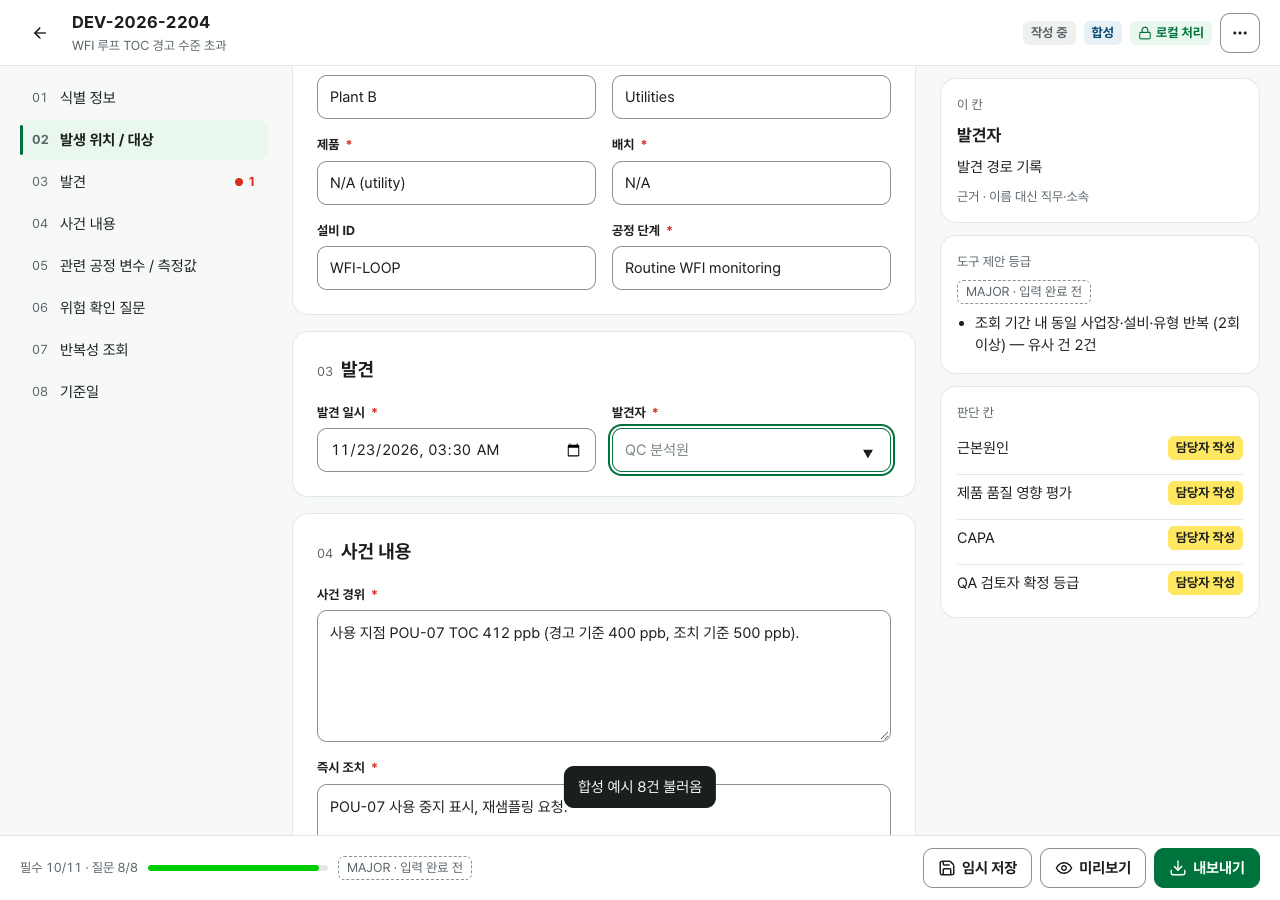
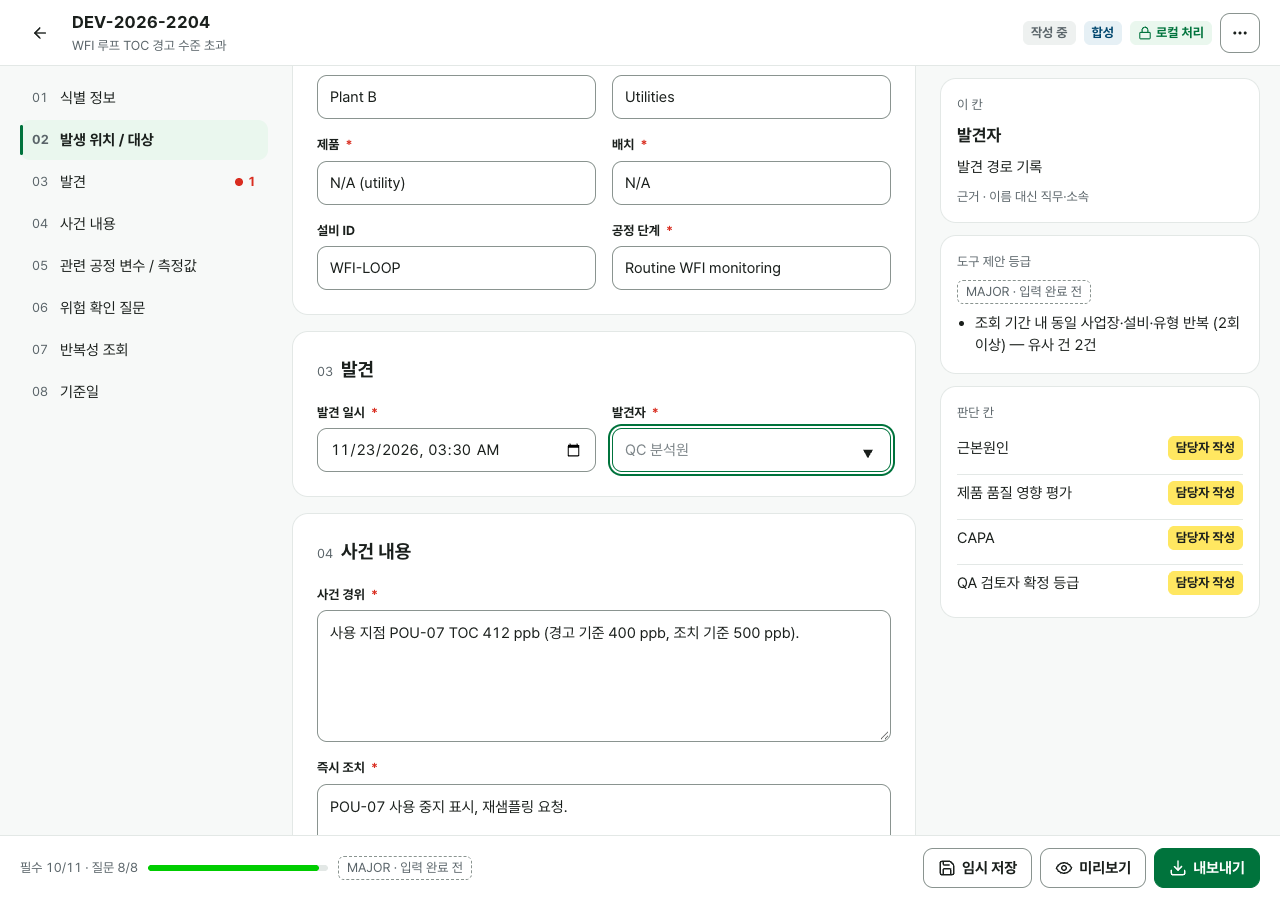
README: 화면과 CLI를 대조하다 찾은 결함 3건 추가, 화면 스크린샷 교체
- 결함 표: 실제 양식 + 합성 이력의 가짜 반복 건, Markdown 별표·규칙 해시, Word 표 폭
- web/docs 스크린샷을 지금 화면으로 (알림 문구가 카드를 가리지 않게 캡처)
- HANDOFF: Word 확인 상태를 실제 확인한 내용으로

Changed region(s): [[0.4375, 0.84, 0.5625, 0.9022]]

diff --git a/docs/HANDOFF.md b/docs/HANDOFF.md
@@ -15,7 +15,7 @@
 | 반복성 조회 (같은 사업장·설비·유형, 과거 근본원인 기본 숨김) | ✅ |
 | 이력 CSV 점검 (`--check-history`) | ✅ |
 | 일괄 처리 요약표 (`--summary`) | ✅ |
-| Word 초안 (모든 쪽 "초안" 머리글, 빈칸 노란 강조) | ✅ — **실제 Word 화면 확인은 아직** |
+| Word 초안 (모든 쪽 "초안" 머리글, 빈칸 노란 강조) | ✅ — Microsoft Word 16.89에서 열어 확인 (2026-11-26, CLI·웹 화면 둘 다) |
 | 생성 근거 기록 (입력 파일명·SHA-256·기준일·버전) | ✅ |
 | 합성 이력이 실제 양식에 섞이는 것 차단 | ✅ |
 | SOP 반영 예시: 합성 SOP, 공개 SOP(Duke COMM-PAS-013) | ✅ |
@@ -79,6 +79,7 @@
 | [#32](https://github.com/strawberryHunter/gmp-deviation-draft/pull/32) | 웹: 저장 거절·저장 불가 상황을 저장 규격의 코드별로 처리, 시험용 대역이 규격(허용 확장자 등)을 따르게, Word 표 칸 안쪽 여백 (Microsoft Word로 열어 확인) |
 | [#33](https://github.com/strawberryHunter/gmp-deviation-draft/pull/33) | CLI Word 초안: 제목의 영문·숫자가 Calibri로 나오던 것을 Arial로 (Microsoft Word로 열어 확인) |
 | [#34](https://github.com/strawberryHunter/gmp-deviation-draft/pull/34) | 웹: 초안을 CLI 양식(YAML)으로 내보내기 (복사, `번호.yaml.txt` 저장). 내보낸 파일을 화면과 CLI가 같은 값으로 읽는지, CLI 결과가 원본과 같은지 테스트 |
+| [#35](https://github.com/strawberryHunter/gmp-deviation-draft/pull/35) | README: 화면과 CLI를 대조하다 찾은 결함 3건을 결함 표에 추가 (가짜 반복 건, Markdown 별표·규칙 해시, Word 표 폭), 브라우저 화면 스크린샷을 지금 화면으로 교체 (알림 문구가 카드를 가리지 않게 캡처) |
 
 ## 3. 사용자가 해야 할 일 — Claude가 대신할 수 없는 것
 
@@ -97,7 +98,7 @@
   3. 이상하면 화면 캡처를 Claude에게 보내기
 - [ ] **② CI 결과 확인** — PR 화면 아래쪽 "Checks"가 초록색 ✅인지 봐 주세요. 빨간 ❌면 Claude에게 "CI 실패 고쳐줘"
 
-- [ ] **③ GitHub 브랜치 정리** — Claude가 지우려 했으나 권한 장치가 막았습니다 (2026-11-26). 남은 원격 브랜치 33개는 모두 머지된 PR의 마지막 커밋과 같아 지워도 잃는 것이 없음을 확인했습니다 (PR 화면에서 되살릴 수 있음). 머지가 끝난 아래 브랜치는 지워도 내용이 사라지지 않습니다. 포트폴리오 저장소가 깔끔해 보입니다.
+- [ ] **③ GitHub 브랜치 정리** — Claude가 지우려 했으나 권한 장치가 막았습니다 (2026-11-26). 남은 원격 브랜치(머지된 PR마다 1개)는 모두 머지된 PR의 마지막 커밋과 같아 지워도 잃는 것이 없음을 확인했습니다 (PR 화면에서 되살릴 수 있음). 머지가 끝난 아래 브랜치는 지워도 내용이 사라지지 않습니다. 포트폴리오 저장소가 깔끔해 보입니다.
   `fix/flag-validation-template`, `feat/history-check`, `feat/docx-format`, `feat/traceability`, `feat/public-sop-example`, `docs/handoff`, `ci/github-actions`, `feat/showcase`, `docs/readme-portfolio`, `feat/summary-docx`, `fix/verbatim-facts`, `decisions/resolve-open-items`, `feat/new-risk-questions`, `feat/summary-xlsx`, `fix/template-comment-leak`, `fix/recurrence-not-checked`, `fix/unused-yes-answers`
   - 지우는 곳: 저장소 → Branches → 각 줄의 휴지통 아이콘
   - 앞으로 자동으로 지우려면: Settings → General → **Automatically delete head branches** 켜기
